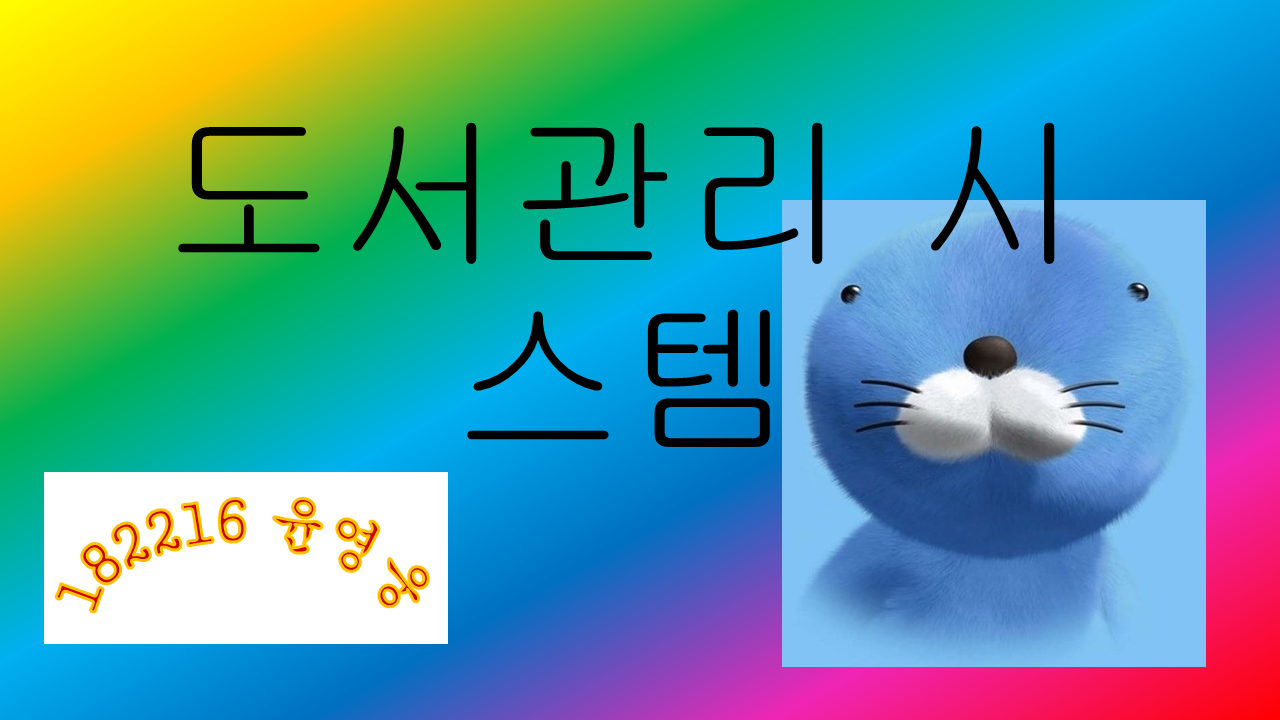
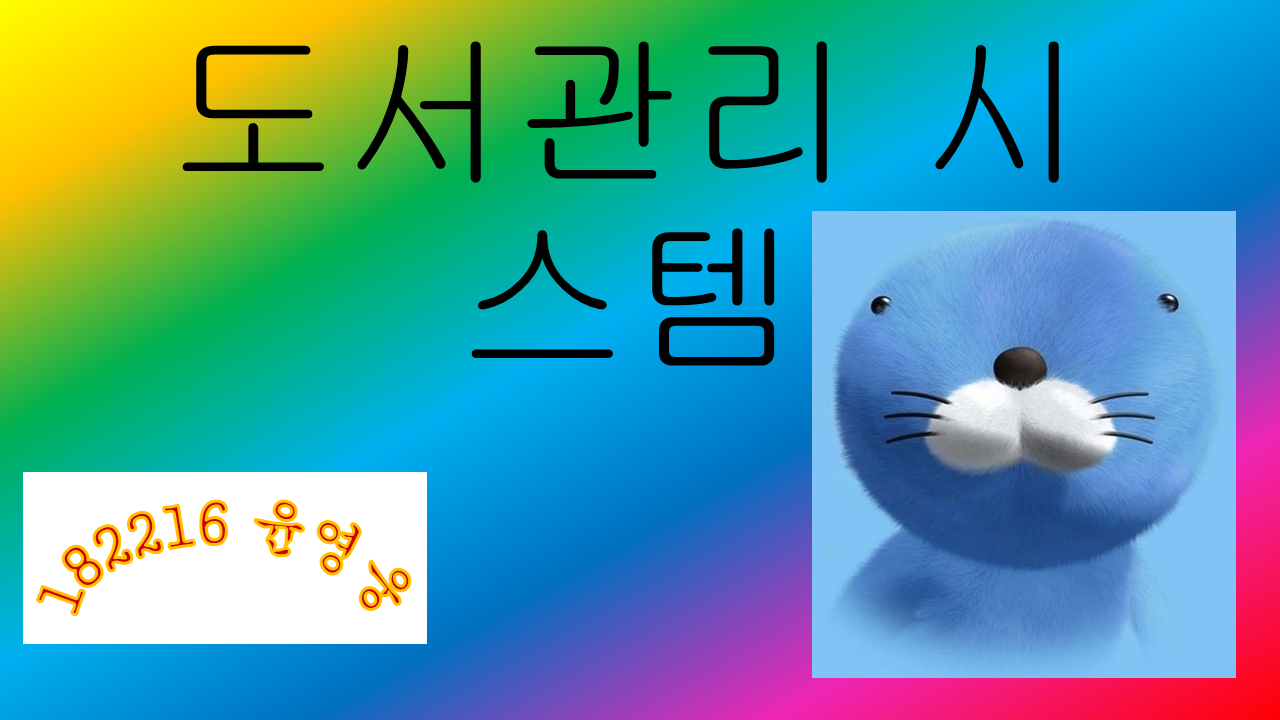
2021-11-07 19:58 프레임 크기 변경 메인 이미지의 크기를 화면 전체를 덮도록 변경

diff --git a/src/ConnectScreen.java b/src/ConnectScreen.java
@@ -13,11 +13,10 @@ public class ConnectScreen extends JPanel
     {
         setLayout(null);
         imagePanel = new ImagePanel("src/MainImage_temp.png");
-        add(imagePanel);
         setBackground(Color.LIGHT_GRAY);
 
         loginBtn = new JButton("로그인");
-        loginBtn.setBounds(250, 430, 150, 40);
+        loginBtn.setBounds(250, 530, 150, 40);
         this.add(loginBtn);
         loginBtn.addActionListener(e ->
         {
@@ -28,12 +27,14 @@ public class ConnectScreen extends JPanel
         });
 
         signUpBtn = new JButton("회원가입");
-        signUpBtn.setBounds(250, 500, 150, 40);
+        signUpBtn.setBounds(250, 600, 150, 40);
         this.add(signUpBtn);
 
         exitBtn = new JButton("종료");
-        exitBtn.setBounds(250, 570, 150, 40);
+        exitBtn.setBounds(250, 670, 150, 40);
         this.add(exitBtn);
         exitBtn.addActionListener(e -> System.exit(0));
+
+        add(imagePanel);
     }
 }

diff --git a/src/LoginWindow.java b/src/LoginWindow.java
@@ -14,7 +14,7 @@ public class LoginWindow extends JFrame
     public LoginWindow(Component c)
     {
         isOn = true;
-        setSize(300, 200);
+        setSize(300, 180);
         setTitle("로그인");
         setLocationRelativeTo(c);
         setResizable(false);
@@ -23,7 +23,7 @@ public class LoginWindow extends JFrame
 
         id = new JLabel("아이디");
         id.setFont(new Font("맑은고딕", Font.BOLD, 14));
-        id.setBounds(30, 20, 80, 25);
+        id.setBounds(40, 20, 80, 25);
         add(id);
 
         inputID = new JTextField(10);
@@ -53,6 +53,5 @@ public class LoginWindow extends JFrame
             dispose(); // 해당 창만 종료
         });
         setDefaultCloseOperation(DO_NOTHING_ON_CLOSE); // 프레임의 X키를 눌러도 창이 종료되지 않음
-
     }
 }

diff --git a/src/ImagePanel.java b/src/ImagePanel.java
@@ -8,11 +8,11 @@ public class ImagePanel extends JPanel
     Image mainImage;
     public ImagePanel(String imageAddr)
     {
-        this.setBounds(0, 0, 700, 400);
+        this.setBounds(0, 0, 700, 800);
         try
         {
             mainImage = ImageIO.read(new File(imageAddr));
-            mainImage = mainImage.getScaledInstance(700, 400, Image.SCALE_SMOOTH);
+            mainImage = mainImage.getScaledInstance(700, 800, Image.SCALE_SMOOTH);
         }
         catch (Exception e)
         {

diff --git a/src/MainFrame.java b/src/MainFrame.java
@@ -20,7 +20,7 @@ public class MainFrame extends JFrame
         setVisible(true);
         setTitle("도서관리 시스템");
         setDefaultCloseOperation(JFrame.EXIT_ON_CLOSE);
-        setSize(700, 700);
+        setSize(700, 800);
         setLocationRelativeTo(null); // 화면의 중앙에 창이 뜸
         setResizable(false); // 창 크기 변경 불가
         
